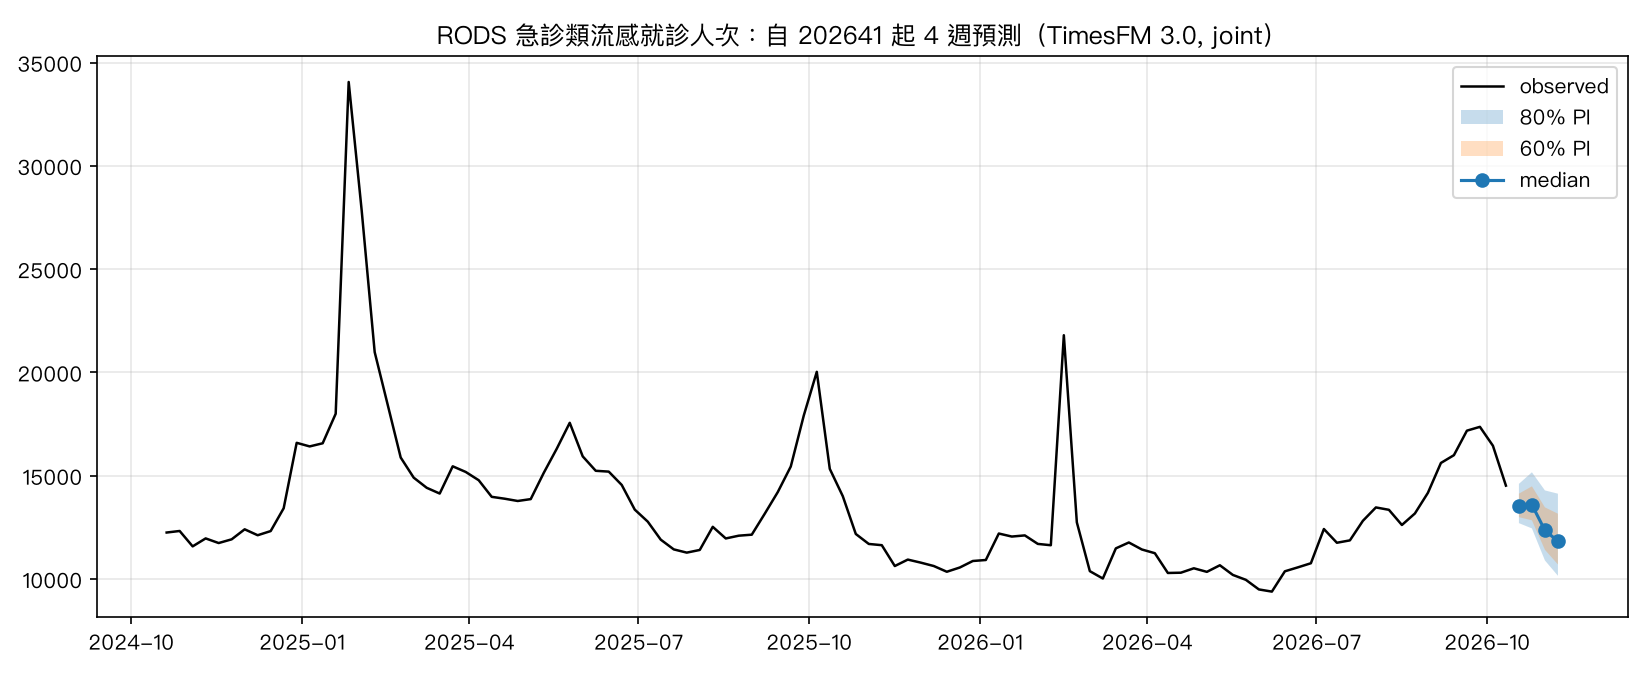
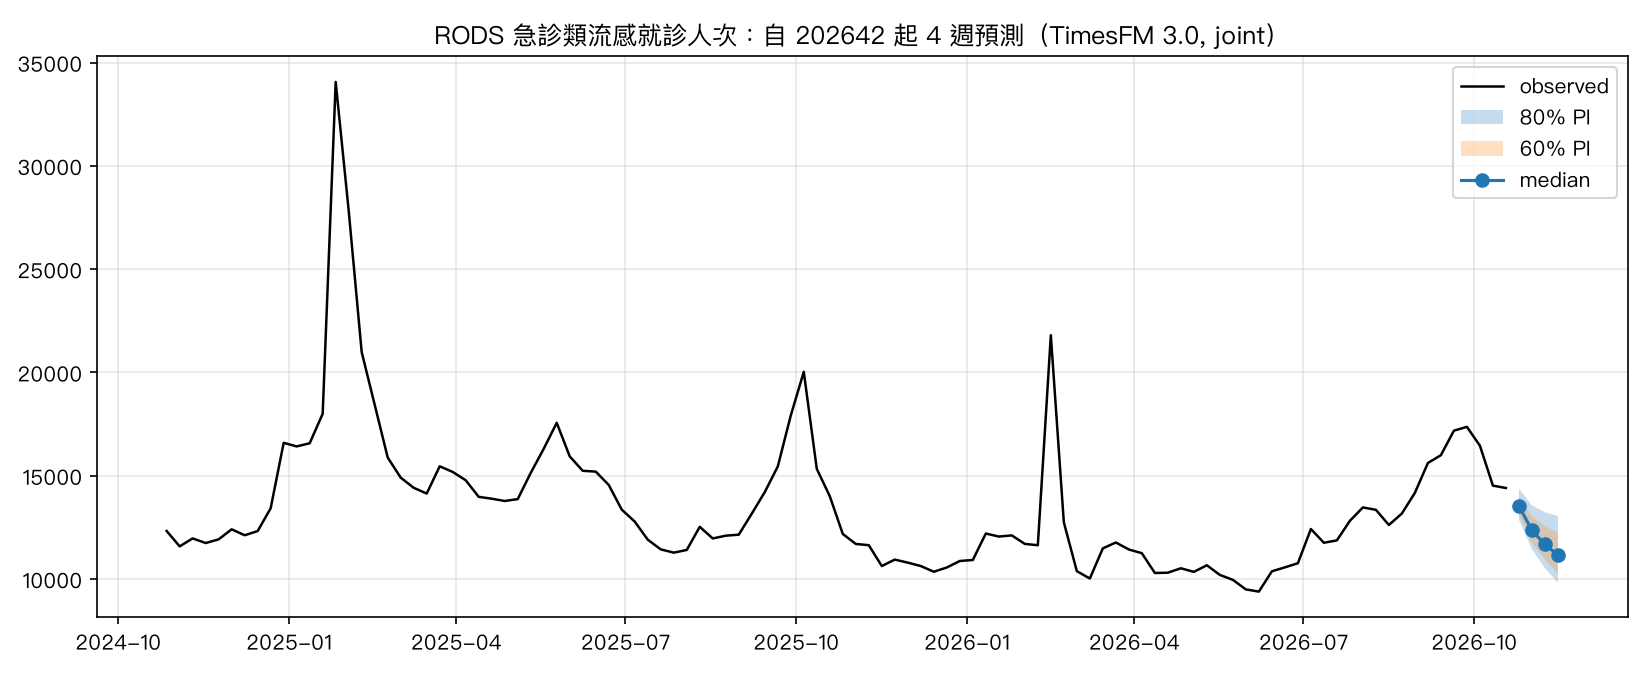
健保 202642 下降原因為 10/23 颱風停班停課：撤回「週結束滿 4 天」規則，改為驟降檢查；颱風日計入假日共變數；預測起點 202642
- 202642 健保門診總就診人次為前 4 週中位數的 85%（北部 76–80%），急診持平；原因是 10/23 薔琵颱風多數縣市停班停課、
  門診停診，不是申報未齊或資料傳輸問題
- 撤回上一個 commit 的 MIN_DAYS_AFTER_WEEK_END（使用者指正：週二擷取的資料本就應可用）。改為 panel.drop_check：
  最新週總量 < 前 4 週中位數 85% 時，有假日或已知停班停課則保留，否則暫停使用並在 stderr 與 qa_report 提示查原因
- 新增 data/closures.csv（颱風等全國性停班停課日，附新聞來源、待人事總處確認），holiday_weekly 將其計入假日天數
  （新增 closure_days 欄）；腸病毒與新冠共用同一共變數
- 每週頁判讀：起點週有假日或停班停課時，週變化與疫情階段改看類流感就診率（-1%，高原期），並加註人次 -21% 為停診造成
- 預測：三變量聯合起點 202642；存檔 192 → 216 列（起點 202641 的預測保留在存檔中）
- 方法頁、CLAUDE.md、HANDOFF 更新；tests 加驟降檢查與停班停課共變數

diff --git a/docs/flu/method.html b/docs/flu/method.html
@@ -13,11 +13,11 @@
   <p class="lead">說明每週類流感預測用了哪些資料、模型怎麼設定、閾值怎麼定，以及預測輸出該怎麼讀。回測成績見<a href="backtest.html">回測</a>，完整解讀見<a href="report.html">報告</a>。</p>
   <section>
     <div class="section-head"><span class="section-num">01</span><h2>預測目標與指標</h2><span class="en">Targets</span></div>
-    <div class="tbl-wrap"><table class="tbl compact"><thead><tr><th>指標</th><th>來源</th><th>預測設定</th><th>最新起點</th></tr></thead><tbody><tr><td><b>門急診合計</b>（總覽主指標）</td><td>健保類流感門診 + 急診就診人次</td><td>門診與急診兩個聯合預測相加；分位數同向相加（偏保守）</td><td>202641</td></tr><tr><td>全國類流感門診就診人次</td><td>健保申報（疾管署資料開放平台）</td><td>聯合三變量（門診 + 急診 + RODS）+ 春節旗標 + 假日天數</td><td>202641</td></tr><tr><td>全國類流感急診就診人次</td><td>健保申報</td><td>聯合三變量（門診 + 急診 + RODS）+ 春節旗標 + 假日天數</td><td>202641</td></tr><tr><td>RODS 急診類流感就診百分比</td><td>即時疫情監視系統 RODS</td><td>單變量 + 春節旗標 + 假日天數</td><td>202642</td></tr><tr><td>流感併發重症週病例數（發病週）</td><td>法定傳染病通報 NIDDS</td><td>單變量 + 春節旗標 + 假日天數</td><td>202638</td></tr></tbody></table></div><p class="source">類流感 = 健保申報 ICD 48X（流感樣疾病）就診；門急診合計是首頁與總覽卡片使用的主指標，由門診與急診兩個聯合預測相加。</p>
+    <div class="tbl-wrap"><table class="tbl compact"><thead><tr><th>指標</th><th>來源</th><th>預測設定</th><th>最新起點</th></tr></thead><tbody><tr><td><b>門急診合計</b>（總覽主指標）</td><td>健保類流感門診 + 急診就診人次</td><td>門診與急診兩個聯合預測相加；分位數同向相加（偏保守）</td><td>202642</td></tr><tr><td>全國類流感門診就診人次</td><td>健保申報（疾管署資料開放平台）</td><td>聯合三變量（門診 + 急診 + RODS）+ 春節旗標 + 假日天數</td><td>202642</td></tr><tr><td>全國類流感急診就診人次</td><td>健保申報</td><td>聯合三變量（門診 + 急診 + RODS）+ 春節旗標 + 假日天數</td><td>202642</td></tr><tr><td>RODS 急診類流感就診百分比</td><td>即時疫情監視系統 RODS</td><td>單變量 + 春節旗標 + 假日天數</td><td>202642</td></tr><tr><td>流感併發重症週病例數（發病週）</td><td>法定傳染病通報 NIDDS</td><td>單變量 + 春節旗標 + 假日天數</td><td>202638</td></tr></tbody></table></div><p class="source">類流感 = 健保申報 ICD 48X（流感樣疾病）就診；門急診合計是首頁與總覽卡片使用的主指標，由門診與急診兩個聯合預測相加。</p>
   </section>
   <section>
     <div class="section-head"><span class="section-num">02</span><h2>資料來源與完整週</h2><span class="en">Data</span></div>
-    <div class="tbl-wrap"><table class="tbl compact"><thead><tr><th>來源</th><th>內容</th><th>粒度</th><th>完整週範圍</th></tr></thead><tbody><tr><td>健保申報 門診/住院</td><td>類流感（ICD 48X）與流感及其所致肺炎（487）就診人次、健保就診總人次</td><td>週 × 門診/住院 × 19 年齡層 × 22 縣市</td><td>200502–202641</td></tr><tr><td>健保申報 急診</td><td>同上，急診</td><td>週 × 年齡層 × 縣市</td><td>201601–202641</td></tr><tr><td>即時疫情監視及預警系統（RODS）</td><td>急診類流感就診人次、急診總人次</td><td>週 × 年齡層 × 234 家醫院</td><td>200901–202642</td></tr><tr><td>法定傳染病通報（NIDDS）</td><td>流感併發重症確定病例（發病週）</td><td>週 × 縣市 × 鄉鎮 × 性別 × 年齡層</td><td>200302–202638</td></tr><tr><td>實驗室自動通報系統（LARS）</td><td>流感 A / B / 未分型陽性數、檢驗件數（陽性率）</td><td>週 × 縣市 × 醫院</td><td>201502–202642</td></tr><tr><td>社區合約實驗室 呼吸道病原體 PCR（RESP_LAB）</td><td>流感、RSV、SARS-CoV-2、hMPV、副流感、鼻病毒、腺病毒、黴漿菌陽性數、總陽性率</td><td>週（全國）</td><td>202502–202638</td></tr></tbody></table></div><ul class="findings"><li>以疾管署疫情週（週日起算）對齊成全國、縣市、年齡層三層週資料面板；健保、RODS、NIDDS、LARS 為使用者手動提供的內部檔，RESP_LAB 每週自 NIDSS 網站抓取。</li><li><b>不完整週自動排除</b>：本週尚未結束的週一律不用；最後幾週若低於前 8 週中位數的 60%（重症 50%）視為申報未齊。重症以發病週計，再保守多排除 3 週；RESP_LAB 以檢體收件週計，多排除 1 週。</li><li><b>隱性零值</b>：NIDDS 為病例列表彙總，沒有病例的週補 0。</li><li><b>已知未來共變數</b>：春節週旗標與每週平日假日天數，取自行政機關辦公日曆（tw_holiday.csv）。</li></ul>
+    <div class="tbl-wrap"><table class="tbl compact"><thead><tr><th>來源</th><th>內容</th><th>粒度</th><th>完整週範圍</th></tr></thead><tbody><tr><td>健保申報 門診/住院</td><td>類流感（ICD 48X）與流感及其所致肺炎（487）就診人次、健保就診總人次</td><td>週 × 門診/住院 × 19 年齡層 × 22 縣市</td><td>200502–202642</td></tr><tr><td>健保申報 急診</td><td>同上，急診</td><td>週 × 年齡層 × 縣市</td><td>201601–202642</td></tr><tr><td>即時疫情監視及預警系統（RODS）</td><td>急診類流感就診人次、急診總人次</td><td>週 × 年齡層 × 234 家醫院</td><td>200901–202642</td></tr><tr><td>法定傳染病通報（NIDDS）</td><td>流感併發重症確定病例（發病週）</td><td>週 × 縣市 × 鄉鎮 × 性別 × 年齡層</td><td>200302–202638</td></tr><tr><td>實驗室自動通報系統（LARS）</td><td>流感 A / B / 未分型陽性數、檢驗件數（陽性率）</td><td>週 × 縣市 × 醫院</td><td>201502–202642</td></tr><tr><td>社區合約實驗室 呼吸道病原體 PCR（RESP_LAB）</td><td>流感、RSV、SARS-CoV-2、hMPV、副流感、鼻病毒、腺病毒、黴漿菌陽性數、總陽性率</td><td>週（全國）</td><td>202502–202638</td></tr></tbody></table></div><ul class="findings"><li>以疾管署疫情週（週日起算）對齊成全國、縣市、年齡層三層週資料面板；健保、RODS、NIDDS、LARS 為使用者手動提供的內部檔，RESP_LAB 每週自 NIDSS 網站抓取。</li><li><b>不完整週自動排除</b>：本週尚未結束的週一律不用；最後幾週若低於前 8 週中位數的 60%（重症 50%）視為申報未齊。重症以發病週計，再保守多排除 3 週；RESP_LAB 以檢體收件週計，多排除 1 週。</li><li><b>最新週驟降檢查</b>：健保門診、急診與 RODS 的最新週總就診人次若低於前 4 週中位數的 85%，該週有假日或停班停課日（如颱風）時視為真實下降並保留，否則暫停使用並查原因（資料傳輸不完整等）。颱風停班停課日不在官方假日表，另記於 data/closures.csv 並計入假日天數共變數。</li><li><b>隱性零值</b>：NIDDS 為病例列表彙總，沒有病例的週補 0。</li><li><b>已知未來共變數</b>：春節週旗標與每週平日假日天數，取自行政機關辦公日曆（tw_holiday.csv），加上颱風等全國性停班停課日（data/closures.csv）。</li></ul>
   </section>
   <section>
     <div class="section-head"><span class="section-num">03</span><h2>模型與設定</h2><span class="en">Model</span></div>
@@ -36,5 +36,5 @@
     <ul class="findings"><li>健保申報有回補，最近 1–2 週的觀測值日後可能上修；正式使用時應以首報／終報比值校正。</li><li>回測顯示高流行週的中位數偏低 2–8%；零樣本模型不知道當季疫苗策略或流行株變化，遇到創新高的季節會慢半拍，上升期請參考區間上緣。</li><li>回測只用 2016–2025 十年資料；閾值命中率所用的第 75 百分位帶有少量事後資訊。</li><li>假日表需每年延伸；未延伸的年份春節週以農曆新年日期外推。</li><li>TimesFM 3.0 權重為非商業、非生產用途授權；正式部署需改用 2.5（Apache-2.0）或另取授權。</li></ul>
   </section>
 </main>
-<footer class="site-footer">資料：疾病管制署（健保申報、RODS、NIDDS、實驗室自動通報系統 LARS、社區合約實驗室 RESP_LAB）。模型：google/timesfm-3.0-pytorch（timesfm-non-commercial-license-v1.0（非商業、非生產用途））。產生時間 2026-10-27T11:05+08:00。</footer>
+<footer class="site-footer">資料：疾病管制署（健保申報、RODS、NIDDS、實驗室自動通報系統 LARS、社區合約實驗室 RESP_LAB）。模型：google/timesfm-3.0-pytorch（timesfm-non-commercial-license-v1.0（非商業、非生產用途））。產生時間 2026-10-27T11:13+08:00。</footer>
 </body></html>

diff --git a/docs/flu/report.html b/docs/flu/report.html
@@ -27,7 +27,7 @@
 <section><h2>2. 使用的資料</h2>
 <p>五個常規監測來源加上 2025 年起的社區合約實驗室檢測，全部以疾管署疫情週（週日起算）對齊成全國、縣市、年齡層三層週資料面板；回測只用 2016w01–2025w53，即時預測用到各來源最新的完整週。</p>
 <table class="tbl compact"><thead><tr><th>來源</th><th>內容</th><th>粒度</th><th>完整週範圍</th></tr></thead><tbody>
-<tr><td>健保申報 門診/住院</td><td>類流感（ICD 48X）與流感及其所致肺炎（487）就診人次、健保就診總人次</td><td>週 × 門診/住院 × 19 年齡層 × 22 縣市</td><td class='num'>200502–202641<br><span style='color:var(--n-500)'>2005-01-02 起至 2026-10-11 當週</span></td></tr><tr><td>健保申報 急診</td><td>同上，急診</td><td>週 × 年齡層 × 縣市</td><td class='num'>201601–202641<br><span style='color:var(--n-500)'>2016-01-03 起至 2026-10-11 當週</span></td></tr><tr><td>即時疫情監視及預警系統（RODS）</td><td>急診類流感就診人次、急診總人次</td><td>週 × 年齡層 × 234 家醫院</td><td class='num'>200901–202642<br><span style='color:var(--n-500)'>2008-12-28 起至 2026-10-18 當週</span></td></tr><tr><td>法定傳染病通報（NIDDS）</td><td>流感併發重症確定病例（發病週）</td><td>週 × 縣市 × 鄉鎮 × 性別 × 年齡層</td><td class='num'>200302–202638<br><span style='color:var(--n-500)'>2003-01-05 起至 2026-09-20 當週</span></td></tr><tr><td>實驗室自動通報系統（LARS）</td><td>流感 A / B / 未分型陽性數、檢驗件數（陽性率）</td><td>週 × 縣市 × 醫院</td><td class='num'>201502–202642<br><span style='color:var(--n-500)'>2015-01-11 起至 2026-10-18 當週</span></td></tr><tr><td>社區合約實驗室 呼吸道病原體 PCR（RESP_LAB）</td><td>流感、RSV、SARS-CoV-2、hMPV、副流感、鼻病毒、腺病毒、黴漿菌陽性數、總陽性率</td><td>週（全國）</td><td class='num'>202502–202638<br><span style='color:var(--n-500)'>2025-01-05 起至 2026-09-20 當週</span></td></tr>
+<tr><td>健保申報 門診/住院</td><td>類流感（ICD 48X）與流感及其所致肺炎（487）就診人次、健保就診總人次</td><td>週 × 門診/住院 × 19 年齡層 × 22 縣市</td><td class='num'>200502–202642<br><span style='color:var(--n-500)'>2005-01-02 起至 2026-10-18 當週</span></td></tr><tr><td>健保申報 急診</td><td>同上，急診</td><td>週 × 年齡層 × 縣市</td><td class='num'>201601–202642<br><span style='color:var(--n-500)'>2016-01-03 起至 2026-10-18 當週</span></td></tr><tr><td>即時疫情監視及預警系統（RODS）</td><td>急診類流感就診人次、急診總人次</td><td>週 × 年齡層 × 234 家醫院</td><td class='num'>200901–202642<br><span style='color:var(--n-500)'>2008-12-28 起至 2026-10-18 當週</span></td></tr><tr><td>法定傳染病通報（NIDDS）</td><td>流感併發重症確定病例（發病週）</td><td>週 × 縣市 × 鄉鎮 × 性別 × 年齡層</td><td class='num'>200302–202638<br><span style='color:var(--n-500)'>2003-01-05 起至 2026-09-20 當週</span></td></tr><tr><td>實驗室自動通報系統（LARS）</td><td>流感 A / B / 未分型陽性數、檢驗件數（陽性率）</td><td>週 × 縣市 × 醫院</td><td class='num'>201502–202642<br><span style='color:var(--n-500)'>2015-01-11 起至 2026-10-18 當週</span></td></tr><tr><td>社區合約實驗室 呼吸道病原體 PCR（RESP_LAB）</td><td>流感、RSV、SARS-CoV-2、hMPV、副流感、鼻病毒、腺病毒、黴漿菌陽性數、總陽性率</td><td>週（全國）</td><td class='num'>202502–202638<br><span style='color:var(--n-500)'>2025-01-05 起至 2026-09-20 當週</span></td></tr>
 </tbody></table>
 <ul class="findings" style="font-size:13.5px">
 <li><strong>不完整週自動排除</strong>：各來源最後幾週若低於前 8 週中位數的 60%（重症 50%）視為申報未齊，不進入 context；重症以發病週計，再保守多排除 3 週，RESP_LAB 以檢體收件週計，多排除 1 週。</li>
@@ -77,10 +77,10 @@
 <li>下一步：TimesFM 與 ETS 的簡單集成、健保申報回補校正、季節峰值時間/高度的專門評估，以及微調（2.5 LoRA）是否值得。</li>
 </ul></section>
 
-<section><h2>7. 最新預測摘要（起點 202641，2026-10-11 當週）</h2>
-<p>全國類流感門診就診人次未來 4 週中位數：103,577、96,100、93,788、90,082；第 1 週 80% 區間 95,582–112,759。完整內容見<a href="index.html">每週預測</a>。</p></section>
+<section><h2>7. 最新預測摘要（起點 202642，2026-10-18 當週）</h2>
+<p>全國類流感門診就診人次未來 4 週中位數：83,329、80,375、77,368、77,019；第 1 週 80% 區間 76,858–91,846。完整內容見<a href="index.html">每週預測</a>。</p></section>
 
-<footer class="report-footer">資料：疾病管制署資料開放平台（健保、RODS、NIDDS、實驗室自動通報系統（LARS））。模型：google/timesfm-3.0-pytorch（非商業授權）。產生時間 2026-10-27T11:05+08:00。圖表依《疫情資料視覺化指引》v1.1。</footer>
+<footer class="report-footer">資料：疾病管制署資料開放平台（健保、RODS、NIDDS、實驗室自動通報系統（LARS））。模型：google/timesfm-3.0-pytorch（非商業授權）。產生時間 2026-10-27T11:13+08:00。圖表依《疫情資料視覺化指引》v1.1。</footer>
 </main>
 <script>
 document.addEventListener('DOMContentLoaded', async () => {

diff --git a/scripts/build_site.py b/scripts/build_site.py
@@ -246,12 +246,20 @@ def build_narrative(nat: pd.DataFrame, latest: dict) -> dict:
     # --- current: outpatient
     wow = 100 * (s_out.iloc[-1] / s_out.iloc[-2] - 1); w3 = 100 * (s_out.iloc[-1] / s_out.iloc[-4] - 1)
     rising = consecutive(s_out.diff().dropna(), lambda d: d > 0); falling = consecutive(s_out.diff().dropna(), lambda d: d < 0)
+    # Origin week with weekday holidays / closures (e.g. a typhoon day): visit counts drop because clinics close, while the
+    # ILI share of all visits does not. Judge the trend (headline stage, week-over-week) on the visit rate in that case.
+    hol_days = int(holiday_weekly([origin]).loc[origin, "holiday_days"])
+    trend_s = rate if hol_days else s_out
+    t_wow = 100 * (trend_s.iloc[-1] / trend_s.iloc[-2] - 1)
+    t_rising = consecutive(trend_s.diff().dropna(), lambda d: d > 0); t_falling = consecutive(trend_s.diff().dropna(), lambda d: d < 0)
     yrs = pd.Series(nat.index.str[:4].astype(int), index=nat.index)
     same = nat[(nat.index.str[4:] == origin[4:]) & yrs.between(yr - 3, yr - 1)]["nhi_out_ili"].dropna()
     hist = s_out.loc["201601":]
     pct_rank = 100 * (hist < s_out.iloc[-1]).mean()
     txt = (f"全國類流感門診 {origin}（{o_date} 起）為 {fmt0(s_out.iloc[-1])} 人次、就診率 {rate.iloc[-1]:.2f}%，"
            f"較前一週{trend_word(wow)}（{wow:+.1f}%），較 3 週前 {w3:+.0f}%")
+    if hol_days:
+        txt += f"（該週有 {hol_days} 天假日或停班停課，人次變化主要反映看診日減少；就診率較前一週 {t_wow:+.1f}%）"
     if rising >= 2: txt += f"，已連續 {rising} 週上升"
     elif falling >= 2: txt += f"，已連續 {falling} 週下降"
     txt += f"；與前三年同一週相比（平均 {fmt0(same.mean())}）為 {s_out.iloc[-1] / same.mean():.1f} 倍，在 2016 年以來所有週中位於第 {pct_rank:.0f} 百分位。" if len(same) else "。"
@@ -328,12 +336,23 @@ def build_narrative(nat: pd.DataFrame, latest: dict) -> dict:
             names[f["yw"]] = "、".join(dict.fromkeys((sel["name"].fillna("") + sel["holidayCategory"].fillna("")).str.replace("nan", "").tolist()))
     if names:
         cav.append("預測範圍內含平日假日：" + "；".join(f"{k}（{v}）" for k, v in names.items()) + "，門診量會因休診下降、急診相對上升，模型已透過假日天數共變數納入。")
+    # recent weeks with national closures (typhoon days etc., data/closures.csv): the dip is not an epidemic change
+    from forecast_teller.io import read_closures
+    cl = read_closures(); recent = [w for w in nat.index[nat.index <= out["origin_yw"]][-3:]]
+    for w in recent:
+        ws = pd.Timestamp(week_start(w)); sel = cl[(cl.date >= ws) & (cl.date <= ws + pd.Timedelta(days=6))]
+        for _, c in sel.iterrows():
+            cav.insert(0, f"{w}（{ws.date()} 起）含 {c['date'].strftime('%m/%d')} {c['name']}（{c['scope'].split('；')[0]}），門診少一個看診日、急診照常，"
+                          "該週門診人次下降屬停診造成而非疫情變化；模型已把停班停課日計入假日天數共變數，預期之後回升。停班停課縣市數依新聞報導，待人事總處資料確認。")
     cav.append("回測（2016–2025）顯示模型在高流行週的中位數偏低 2–8%，上升期解讀請參考區間上緣；1–2 週的預測最可靠。")
     cav.append("健保申報有回補，最近一週的觀測值日後可能上修；本頁所有判讀由程式依規則自動產生。")
 
     # --- headline
     lvl = "高" if pct_rank >= 90 else ("偏高" if pct_rank >= 75 else ("中等" if pct_rank >= 40 else "低"))
-    stage = ("上升期" if rising >= 2 and wow >= 5 else ("下降期" if falling >= 2 and wow <= -5 else "高原期" if lvl in ("高", "偏高") else "低度活動"))
+    if hol_days:   # level from the rate rank too: counts are depressed by the closed clinic days
+        r_hist = rate.loc["201601":]; pct_rank = 100 * (r_hist < rate.iloc[-1]).mean()
+        lvl = "高" if pct_rank >= 90 else ("偏高" if pct_rank >= 75 else ("中等" if pct_rank >= 40 else "低"))
+    stage = ("上升期" if t_rising >= 2 and t_wow >= 5 else ("下降期" if t_falling >= 2 and t_wow <= -5 else "高原期" if lvl in ("高", "偏高") else "低度活動"))
     if 0 < imax < 3:
         outlook = f"模型預期第 {imax + 1} 週（{fc[imax]['date']} 起）前後觸頂，之後緩降"
     elif all(np.diff(meds) > 0):
@@ -342,7 +361,9 @@ def build_narrative(nat: pd.DataFrame, latest: dict) -> dict:
         outlook = "模型預期未來 4 週持續下降"
     else:
         outlook = "模型預期未來 4 週大致持平"
-    headline = (f"疫情處於{stage}、活動度{lvl}：門診人次較前一週 {wow:+.0f}%，RODS 急診類流感% {s_rods.iloc[-1]:.1f}%"
+    trend_txt = (f"門診類流感就診率較前一週 {t_wow:+.0f}%（{origin} 有 {hol_days} 天假日或停班停課，人次 {wow:+.0f}% 主要反映看診日減少）"
+                 if hol_days else f"門診人次較前一週 {wow:+.0f}%")
+    headline = (f"疫情處於{stage}、活動度{lvl}：{trend_txt}，RODS 急診類流感% {s_rods.iloc[-1]:.1f}%"
                 + ("（連續 %d 週高於流行閾值）" % above if above else "（低於流行閾值）") + f"；{outlook}，下週續升機率{pct_txt(p_up1)}。")
     return {"headline": headline, "current": cur, "outlook": fut, "caveats": cav, "origin_yw": origin, "origin_date": o_date}
 
@@ -470,8 +491,9 @@ def build_method(bt: dict, latest: dict, meta: dict) -> str:
     s2 = (table(["來源", "內容", "粒度", "完整週範圍"], [[n, c, g, rng(k)] for k, n, c, g in SOURCES]) + ul([
         "以疾管署疫情週（週日起算）對齊成全國、縣市、年齡層三層週資料面板；健保、RODS、NIDDS、LARS 為使用者手動提供的內部檔，RESP_LAB 每週自 NIDSS 網站抓取。",
         "<b>不完整週自動排除</b>：本週尚未結束的週一律不用；最後幾週若低於前 8 週中位數的 60%（重症 50%）視為申報未齊。重症以發病週計，再保守多排除 3 週；RESP_LAB 以檢體收件週計，多排除 1 週。",
+        "<b>最新週驟降檢查</b>：健保門診、急診與 RODS 的最新週總就診人次若低於前 4 週中位數的 85%，該週有假日或停班停課日（如颱風）時視為真實下降並保留，否則暫停使用並查原因（資料傳輸不完整等）。颱風停班停課日不在官方假日表，另記於 data/closures.csv 並計入假日天數共變數。",
         "<b>隱性零值</b>：NIDDS 為病例列表彙總，沒有病例的週補 0。",
-        "<b>已知未來共變數</b>：春節週旗標與每週平日假日天數，取自行政機關辦公日曆（tw_holiday.csv）。"]))
+        "<b>已知未來共變數</b>：春節週旗標與每週平日假日天數，取自行政機關辦公日曆（tw_holiday.csv），加上颱風等全國性停班停課日（data/closures.csv）。"]))
     s3 = table(["項目", "設定"], [
         ["模型", "Google TimesFM 3.0（330M 參數時間序列基礎模型），零樣本、未微調；Apple Silicon 以 MLX 後端執行"],
         ["context", "擴張視窗，自 2016w01 起至各指標最新完整週；聯合預測截到所有成員共同的最新完整週"],

diff --git a/src/forecast_teller/panel.py b/src/forecast_teller/panel.py
@@ -17,7 +17,7 @@ import pandas as pd
 
 from . import PROCESSED_DIR
 from .io import AGE_ORDER, COUNTIES, load_all
-from .weeks import week_start, week_table, yw_of_date, yw_range
+from .weeks import week_table, yw_of_date, yw_range
 
 # Extra weeks trimmed from the tail beyond automatic partial-week detection
 # (reporting lag: NIDDS is by onset week and keeps being back-filled for weeks).
@@ -42,10 +42,13 @@ SOURCE_COLUMNS = {
     "lab": ["lab_flu_a", "lab_flu_b", "lab_flu_u", "lab_tests"],
     "resp": RESP_COLS,
 }
-# Minimum days between the end of a week (Saturday) and the data extraction before an NHI claims week counts as
-# complete. Evidence (2026-10): 4 days after the week ended the first-reported outpatient total was 98% of the
-# final value (202640 on 10-14); 3 days after it was 84% (202642 on 10-27) and still passed the 60% ratio test.
-MIN_DAYS_AFTER_WEEK_END = {"nhi": 4, "nhi_er": 4}
+# Sudden-drop check on the newest week (user decision 2026-10-27): a Tuesday extraction should normally be usable,
+# so a large drop is investigated, not waited out. If the newest week's total is below DROP_RATIO × the median of
+# the previous 4 weeks and that week has no holiday / national closure (tw_holiday.csv + data/closures.csv), the
+# week is paused (excluded from context) and reported for investigation (transmission problem, unlisted closure…).
+# With a known holiday or closure the drop is real and the week is kept; the holiday covariate carries the effect.
+DROP_CHECK = {"nhi": "nhi_out_total", "nhi_er": "nhi_er_total", "rods": "rods_total"}
+DROP_RATIO = 0.85
 ZERO_FILL_SOURCES = {"nidds"}  # case lists: a week with no rows is a true zero
 
 
@@ -95,6 +98,26 @@ def _national_parts(raw: dict[str, pd.DataFrame]) -> pd.DataFrame:
     return df.reindex(yw_range(min(df.index), max(df.index)))
 
 
+def drop_check(s: pd.Series, week: str, k: int = 4) -> dict | None:
+    """Sudden drop of `week` vs the median of the previous k weeks. None if no drop; otherwise a dict with
+    action 'kept' (week has holiday / closure days → real) or 'paused' (no known cause → investigate)."""
+    from .covariates import holiday_weekly   # local import: covariates → io, avoids a cycle at module load
+    s = s.dropna().sort_index()
+    if week not in s.index or s.index.get_loc(week) < k:
+        return None
+    i = s.index.get_loc(week)
+    ratio = float(s.iloc[i] / s.iloc[i - k:i].median())
+    if ratio >= DROP_RATIO:
+        return None
+    hw = holiday_weekly([week]).loc[week]
+    if hw["holiday_days"] > 0:
+        why = f"該週有 {int(hw['holiday_days'])} 個平日假日或停班停課日" + (f"（其中停班停課 {int(hw['closure_days'])} 天，data/closures.csv）" if hw["closure_days"] else "")
+        return {"week": week, "ratio": round(ratio, 3), "action": "kept", "reason": why + "，視為真實下降並保留；假日天數共變數已納入。"}
+    return {"week": week, "ratio": round(ratio, 3), "action": "paused",
+            "reason": f"總量為前 {k} 週中位數的 {ratio:.0%}，該週沒有假日或已知停班停課；暫停使用，請查原因（資料傳輸不完整、未列入的停診或颱風日等）。"
+                      "若確認為停班停課，加入 data/closures.csv 後重跑；若為傳輸問題，請重新擷取。"}
+
+
 def coverage_from_national(nat: pd.DataFrame, lag: dict[str, int] | None = None,
                            asof=None) -> dict[str, dict]:
     lag = {**DEFAULT_LAG, **(lag or {})}
@@ -113,10 +136,9 @@ def coverage_from_national(nat: pd.DataFrame, lag: dict[str, int] | None = None,
         if s.empty:
             continue
         first, last = detect_edges(s, ratio=0.5 if src == "nidds" else 0.6)
-        if src in MIN_DAYS_AFTER_WEEK_END:
-            asof_d = pd.Timestamp(asof) if asof is not None else pd.Timestamp.today().normalize()
-            while (asof_d - (week_start(last) + pd.Timedelta(days=6))).days < MIN_DAYS_AFTER_WEEK_END[src]:
-                last = yws[yws.index(last) - 1]
+        flag = drop_check(s, last) if src in DROP_CHECK else None
+        if flag and flag["action"] == "paused":
+            last = yws[yws.index(last) - 1]
         last_i = yws.index(last) - lag[src]
         cov[src] = {
             "raw_first": raw_first,
@@ -126,6 +148,8 @@ def coverage_from_national(nat: pd.DataFrame, lag: dict[str, int] | None = None,
             "dropped_head": yws[yws.index(raw_first) : yws.index(first)],
             "dropped_tail": yws[last_i + 1 : yws.index(raw_last) + 1],
         }
+        if flag:
+            cov[src]["drop_check"] = flag
     return cov
 
 
@@ -235,6 +259,9 @@ def build_all(out_dir: str | Path | None = None, lag: dict[str, int] | None = No
     for src, c in cov.items():
         lines.append(f"| {src} | {c['raw_first']}–{c['raw_last']} | {c['first_complete']}–{c['last_complete']} | "
                      f"{', '.join(c['dropped_head']) or '-'} | {', '.join(c['dropped_tail']) or '-'} |")
+    flags = [(src, c["drop_check"]) for src, c in cov.items() if c.get("drop_check")]
+    if flags:
+        lines += ["", "## 最新週驟降檢查", ""] + [f"- **{src} {f['week']}**（{'暫停使用' if f['action'] == 'paused' else '保留'}）：{f['reason']}" for src, f in flags]
     lines += ["", "## Yearly totals / mean rates (national)", "", ys.to_markdown(), "",
               f"county rows: {len(county):,}  age rows: {len(age):,}", ""]
     (out / "qa_report.md").write_text("\n".join(lines), encoding="utf-8")

diff --git a/src/forecast_teller/covariates.py b/src/forecast_teller/covariates.py
@@ -4,7 +4,7 @@ from __future__ import annotations
 import numpy as np
 import pandas as pd
 
-from .io import read_holidays
+from .io import read_closures, read_holidays
 from .weeks import next_weeks, seasonal_phase, week_table, yw_of_date
 
 # Lunar New Year's Day for years beyond tw_holiday.csv. Verify against the official
@@ -14,7 +14,8 @@ WEEKEND_CATEGORY = "星期六、星期日"
 
 
 def holiday_weekly(yws: list[str]) -> pd.DataFrame:
-    """Per yearweek: holiday_days (weekday public holidays) and cny_week (0/1)."""
+    """Per yearweek: holiday_days (weekday public holidays + national closures such as typhoon days from
+    data/closures.csv), cny_week (0/1) and closure_days (the closure part of holiday_days)."""
     yws = list(dict.fromkeys(yws))  # de-duplicate, keep order (history and forecast weeks may overlap)
     wt = week_table().set_index("yw")
     h = read_holidays()
@@ -23,6 +24,12 @@ def holiday_weekly(yws: list[str]) -> pd.DataFrame:
     h["yw"] = starts.index[idx]
     weekday_hol = h[h["isHoliday"] & (h["holidayCategory"] != WEEKEND_CATEGORY)]
     days = weekday_hol.groupby("yw").size()
+    # typhoon (or other) national closures from data/closures.csv: weekdays that are not already holidays
+    cl = read_closures()
+    cl = cl[(cl["date"].dt.dayofweek < 5) & ~cl["date"].isin(weekday_hol["date"])]
+    cl_idx = np.searchsorted(starts.values, cl["date"].values, side="right") - 1
+    closure_days = pd.Series(1, index=starts.index[cl_idx]).groupby(level=0).sum() if len(cl) else pd.Series(dtype=float)
+    days = days.add(closure_days, fill_value=0)
     # the file sometimes puts the holiday name in `name`, sometimes only in `holidayCategory`
     text = h["name"].fillna("") + "|" + h["holidayCategory"].fillna("")
     is_cny = text.str.contains("春節|除夕|小年夜") & h["isHoliday"]
@@ -37,6 +44,7 @@ def holiday_weekly(yws: list[str]) -> pd.DataFrame:
     out = pd.DataFrame(index=pd.Index(yws, name="yw"))
     out["holiday_days"] = days.reindex(yws).fillna(0).astype(float)
     out["cny_week"] = [1.0 if w in cny_weeks else 0.0 for w in yws]
+    out["closure_days"] = closure_days.reindex(yws).fillna(0).astype(float)   # already included in holiday_days
     # Beyond the holiday file the weekday-holiday count is unknown. The CNY break is
     # always at least Mon–Fri of the week containing New Year's Day when the break spans
     # 9 days (2026: Feb 14–22), so assume 5 for CNY weeks and 0 elsewhere. Extend

diff --git a/tests/test_basics.py b/tests/test_basics.py
@@ -54,4 +54,14 @@ assert to["event"] == "exceed" and to["above_now"] is False and to["first_week"]
 assert abs(to["p"] - max(to["by_h"])) < 1e-9 and to["p_indep"] >= to["p"]
 to2 = threshold_outlook(fc, 11.0, 12.0, "RODS%", "11%")
 assert to2["event"] == "drop" and abs(to2["p"] - (1 - min(to2["by_h"]))) < 1e-9 and to2["first_week"] == "202641"
+# sudden-drop check on the newest week: kept when the week has a holiday / closure, paused otherwise
+from forecast_teller.panel import drop_check  # noqa: E402
+import pandas as pd  # noqa: E402
+base = [5.3e6, 5.6e6, 5.3e6, 5.8e6]
+s_hol = pd.Series(base + [4.6e6], index=["202638", "202639", "202640", "202641", "202642"])   # 202642 has the 10/23 typhoon day
+assert drop_check(s_hol, "202642")["action"] == "kept"
+s_no = pd.Series(base + [4.6e6], index=["202637", "202638", "202639", "202640", "202641"])    # 202641 has no holiday
+assert drop_check(s_no, "202641")["action"] == "paused"
+assert drop_check(pd.Series(base + [5.2e6], index=["202637", "202638", "202639", "202640", "202641"]), "202641") is None
+assert holiday_weekly(["202642"]).loc["202642", "closure_days"] == 1
 print("all basic checks passed")

diff --git a/src/forecast_teller/io.py b/src/forecast_teller/io.py
@@ -175,6 +175,15 @@ def read_holidays(path: str | Path | None = None) -> pd.DataFrame:
     return df
 
 
+def read_closures(path: str | Path | None = None) -> pd.DataFrame:
+    """data/closures.csv (UTF-8): national-scale weekday closures not in tw_holiday.csv, e.g. typhoon 停班停課 days.
+    Only list days when most counties closed (the covariate is national); keep the news source and a 待確認 status."""
+    p = Path(path) if path else DATA_DIR / "closures.csv"
+    if not p.exists():
+        return pd.DataFrame(columns=["date", "name", "scope", "n_counties", "source", "status"])
+    return pd.read_csv(p, parse_dates=["date"])
+
+
 RAW_FILES = {
     "nhi_48x": "NHI_PROCESSED_48X.csv",
     "nhi_48x_er": "NHI_PROCESSED_48X_ER.csv",

diff --git a/scripts/build_panel.py b/scripts/build_panel.py
@@ -11,3 +11,8 @@ res = build_all()
 nat = res["national"]
 print(f"built in {time.time()-t0:.0f}s | national {nat.shape} {nat.index[0]}..{nat.index[-1]}")
 print(open(Path(__file__).resolve().parents[1] / "data_processed" / "qa_report.md", encoding="utf-8").read())
+for src, c in res["coverage"].items():   # stderr so it survives `| head` in weekly_update.sh
+    f = c.get("drop_check")
+    if f:
+        tag = "⚠ 暫停使用" if f["action"] == "paused" else "ℹ 保留"
+        print(f"{tag} {src} {f['week']}：{f['reason']}", file=sys.stderr)

diff --git a/HANDOFF.md b/HANDOFF.md
@@ -261,6 +261,7 @@ forecast-teller/
 | 2026-10-01 | 登革熱：事件定義統一為最終資料閾值；面板起點拉到 2008；驗證只用固定的歷史快照，不處理資料來源斷線 |
 | 2026-10-14 | 三條每週預測頁加「未來 4 週內超過（或降到以下）閾值的機率」：`src/forecast_teller/threshold_probs.py`，以各週機率的極值近似（假設各週誤差同向）為主值、各週獨立為上界，兩者都顯示；流感用 RODS 11%、腸病毒用當年閾值、新冠用暫行進入／脫離水準（標「暫行」） |
 | 2026-10-19 | 網站改以疾病分類（總覽 + 類流感 / 新冠 / 腸病毒 / 登革熱，各有預測或預警、回測、報告、方法）；類流感搬到 `/flu/`；登革熱拆成預警、驗證報告、方法三頁；不留舊網址轉址頁 |
+| 2026-10-27 | 健保等來源的最新週若驟降：有假日或已知停班停課 → 保留；沒有已知原因 → 暫停使用並查原因（資料傳輸等），不以「等滿幾天」處理；颱風停班停課日記於 `data/closures.csv` 並計入假日天數共變數 |
 
 ### 8.2 工作規則
 
@@ -324,7 +325,7 @@ forecast-teller/
 - 新 clone 沒有 `outputs/backtest/*.parquet`，`build_site.py` 原本會中斷 → 改為沿用 `docs/flu/data/backtest.json` 並印提示（腸病毒同）。
 - 兩個 clone 各自有舊版內部檔；在資料較舊的那台重建流感面板會把 coverage 倒退 → 先比對 `data/` 檔案日期與 `coverage.json`。
 - 一次 push 因 DNS 失敗 → 重試即可。
-- 2026-10-27：健保 202642（週六結束後 3 天擷取）門診總就診人次只有前一週的 79%，但類流感占比不變、RODS 與急診持平，是申報未齊卻通過 60% 比值測試 → `panel.MIN_DAYS_AFTER_WEEK_END`：健保門診與急診的週需結束滿 4 天才算完整（10/14 擷取時 4 天後首報值已是終值的 98%）。若在週日至週二擷取，健保起點會比 RODS 少一週，屬正常。
+- 2026-10-27：健保 202642 門診總就診人次只有前 4 週中位數的 85%（北部縣市約 76–80%），急診持平。原因是 10/23 薔琵颱風多數縣市停班停課、門診停診，不是資料沒傳好。曾誤加「週結束滿 4 天才算完整」的規則，使用者指正：週二擷取的資料本就應可用，大幅下降要找原因 → 改為 `panel.drop_check`：最新週總量低於前 4 週中位數 85% 時，若該週有假日或 `data/closures.csv` 列的停班停課日則保留（假日天數共變數已納入），否則暫停使用並在 build_panel 的 stderr 與 qa_report 提示查原因。颱風停班停課日不在官方假日表裡，**之後遇到颱風要手動加進 `data/closures.csv`**（附新聞來源、標待確認）。
 
 ---
 

diff --git a/data_processed/qa_report.md b/data_processed/qa_report.md
@@ -4,12 +4,16 @@
 
 | source | raw range | complete range | dropped head | dropped tail |
 |---|---|---|---|---|
-| nhi | 200501–202643 | 200502–202641 | 200501 | 202642, 202643 |
-| nhi_er | 201552–202643 | 201601–202641 | 201552 | 202642, 202643 |
+| nhi | 200501–202643 | 200502–202642 | 200501 | 202643 |
+| nhi_er | 201552–202643 | 201601–202642 | 201552 | 202643 |
 | rods | 200901–202643 | 200901–202642 | - | 202643 |
 | nidds | 200302–202642 | 200302–202638 | - | 202639, 202640, 202641, 202642 |
 | lab | 201453–202643 | 201502–202642 | 201453, 201501 | 202643 |
 | resp | 202501–202641 | 202502–202638 | 202501 | 202639, 202640, 202641 |
+
+## 最新週驟降檢查
+
+- **nhi 202642**（保留）：該週有 1 個平日假日或停班停課日（其中停班停課 1 天，data/closures.csv），視為真實下降並保留；假日天數共變數已納入。
 
 ## Yearly totals / mean rates (national)
 
@@ -38,6 +42,6 @@
 |   2023 |   3.25905e+06 |       302045 |     709810 |           1054 |       48034 |        2854 |               1.3  |          10.59 |           5.55 |
 |   2024 |   4.37425e+06 |       381736 |     749730 |           1888 |       52741 |        9662 |               1.62 |          11.44 |           5.31 |
 |   2025 |   5.1581e+06  |       519983 |     780333 |           2322 |       64204 |        5412 |               1.7  |          11.26 |           5.86 |
-|   2026 |   3.6141e+06  |       357063 |     521502 |           1374 |       38247 |        9750 |               1.58 |           9.85 |           5.24 |
+|   2026 |   3.70144e+06 |       367169 |     521502 |           1374 |       38247 |        9750 |               1.59 |           9.85 |           5.24 |
 
-county rows: 170,192  age rows: 117,108
+county rows: 170,280  age rows: 117,180

diff --git a/CLAUDE.md b/CLAUDE.md
@@ -18,7 +18,7 @@
 ## 資料
 - `data/` 的流感原始檔是 cp950（Big5）的內部檔，由使用者手動更新，不進 git；`tw_holiday.csv`、`date_week_mapping.csv` 與 `RESP_LAB.csv` 為 UTF-8。`RESP_LAB.csv` 由 `scripts/fetch_resp_lab.py` 從 NIDSS 網站抓，每次抓到的值留存於 `data/resp_lab_history.csv`（進 git）。
 - 每週預測值累積在 `outputs/forecast_log/forecast_log.csv`（進 git），不要刪；`evaluate_forecasts.py` 用它評估實際預測表現。
-- 疫情週用 `forecast_teller.weeks`；頭尾不完整週由 `panel.detect_edges` 自動剔除，更新後先看 `data_processed/coverage.json`。
+- 疫情週用 `forecast_teller.weeks`；頭尾不完整週由 `panel.detect_edges` 自動剔除，更新後先看 `data_processed/coverage.json`。最新週驟降（< 前 4 週中位數 85%）由 `panel.drop_check` 處理：有假日或停班停課日則保留，否則暫停使用並**找原因**（資料沒傳好、未列入的停診）。颱風等停班停課日不在官方假日表，要加進 `data/closures.csv`（附來源、標待確認），會計入假日天數共變數。
 - 實驗室 A/B 型資料來源是「實驗室自動通報系統（LARS）」，不是合約實驗室。
 - RODS 急診類流感%的流行閾值 11%（`backtest.DEFAULT_THRESHOLDS`）。腸病毒閾值依年記錄在 `ev_forecast/data/thresholds.csv`。新冠的流行閾值數值未取得，以 `covid_forecast/src/covid_forecast/thresholds.py` 的暫行規則判定（待確認），網頁不畫閾值線。
 - 回測只用 2016w01–2025w53，暖機 104 週，h = 1–4，分 COVID 前 / 期 / 後三段（流感、腸病毒）。新冠資料只有 2021w27 起，回測起點 2024w01 起、依年分段。
